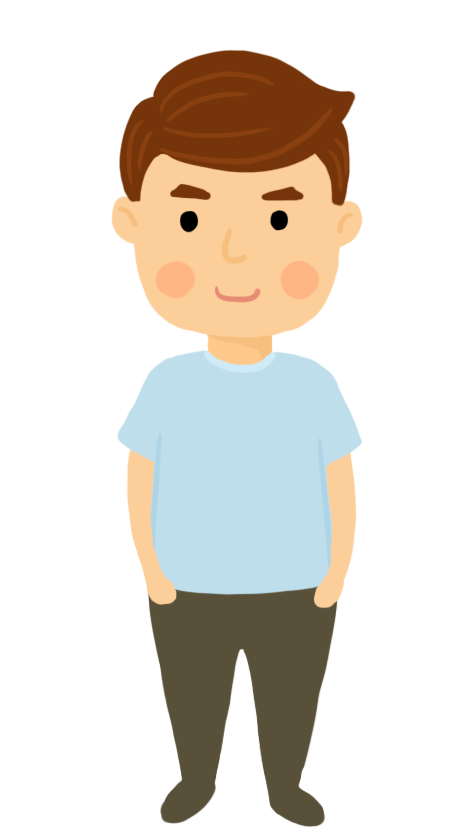
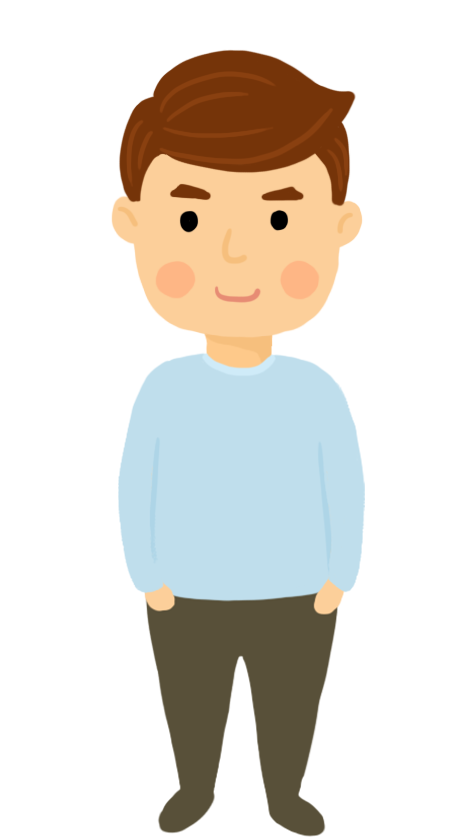
i

diff --git a/src/components/game/milk.vue b/src/components/game/milk.vue
@@ -70,8 +70,10 @@
     </div>
     <button class="clear-btn" v-if="!isSaved" @click="isClearCanvas"><img :src="require('../../assets/img/clear_icon.png')"/></button>
     <button class="back-btn" v-if="isSaved" @click="backToEdit">返回</button>
+    <p class="save-tip" v-if="isSaved">长按图片保存</p>
     <div class="bottom-back" v-if="!isSaved">
       <button class="save-btn" v-bind:style="{'background-image':'url('+require('../../assets/img/icons.png')+')'}" @click="saveCanvas"></button>
+      <p class="save-btn-tip">点击上方按钮生成海报</p>
     </div>
   </div>
 </template>
@@ -158,6 +160,7 @@ export default {
           require("../../assets/img/fur21.png"),
           require("../../assets/img/fur22.png"),
           require("../../assets/img/fur24.png"),
+          require("../../assets/img/fur25.png"),
           require("../../assets/img/fur5.png"),
           require("../../assets/img/fur6.png"),
           require("../../assets/img/fur7.png"),
@@ -240,6 +243,7 @@ export default {
           require("../../assets/img/man_body_6.png"),
           require("../../assets/img/man_body_7.png"),
           require("../../assets/img/man_body_8.png"),
+          require("../../assets/img/man_body_9.png"),
         ],
          //头发(女)
         [
@@ -285,6 +289,7 @@ export default {
           require("../../assets/img/woman_body_7.png"),
           require("../../assets/img/woman_body_8.png"),
           require("../../assets/img/woman_body_9.png"),
+          require("../../assets/img/man_body_9.png"),
         ],
         // 人物
         [
@@ -328,6 +333,7 @@ export default {
       characterDecorateList: [],//显示的可选的主角装饰
       // 保存图片路径
       imgList: [],
+      headImgEle:null,//头像元素
       // 保存图片实例
       imgListArr: [],
       // 保存图片信息
@@ -684,6 +690,17 @@ export default {
       weui.toast("长按保存", 1000);
       this.isSaved = true;
     },
+    getDataFromUrl(name){
+      let url = window.location.href;
+      let strList = url.split('?')[1].split('&');
+      for(let i = 0 ; i < strList.length ; i++){
+        var thisName = strList[i].split('=')[0];
+        if(thisName == name){
+          return strList[i].split('=')[1]
+        }
+      }
+      return ''
+    },
     backToEdit(){
       this.isSaved = false;
     },
@@ -726,19 +743,19 @@ export default {
         let t = this.delEl = {
           t: this.imgList[this.imgList.length - 2],
           i: a.i,
-          x: el.x - 15,
-          y: el.y + el.h -5,
-          w: 20,
-          h: 20
+          x: el.x - 20,
+          y: el.y + el.h -10,
+          w: 30,
+          h: 30
         };
         // 修改大小的按钮
         let s = this.resetEl = {
           t: this.imgList[this.imgList.length - 1],
           i: a.i,
-          x: el.x + el.w - 5,
-          y: el.y -15,
-          w: 20,
-          h: 20
+          x: el.x + el.w - 10,
+          y: el.y -20,
+          w: 30,
+          h: 30
         };
         // 设置颜色按钮
         this.setCol = [];
@@ -776,6 +793,30 @@ export default {
       let bottomW = this.canvas.width;
       let bottomH = 100/16*this.baseFontSize*this.ratio;
       this.ctx.drawImage(bottomTemp, bottomX, bottomY, bottomW, bottomH);
+      // 昵称
+      let nickName = decodeURIComponent(decodeURIComponent(this.getDataFromUrl('name')))
+      console.log(nickName)
+      // let nickNameX = 50;
+      let nickNameX = this.canvas.width * 0.15;
+      let nickNameY = this.canvas.height - 100/16*this.baseFontSize*this.ratio*0.73;
+      this.ctx.fillStyle = '#333';
+      this.ctx.font =this.canvas.width * 0.04/ this.ratio + 'px' + ' Georgia';
+      // this.ctx.font =this.canvas.width * 0.04 + 'px' + ' Georgia';
+      this.ctx.fillText('我是'+nickName+'，我为国家而宅',nickNameX/ this.ratio,nickNameY/ this.ratio);
+      // 底部头像
+      let headUrl = decodeURIComponent(decodeURIComponent(this.getDataFromUrl('headimg')));
+      let headX = this.canvas.width * 0.03;
+      let headY = this.canvas.height - 100/16*this.baseFontSize*this.ratio*0.95;
+      let headW = this.canvas.width * 0.09;
+      let headH = this.canvas.width * 0.09;
+      console.log(this.canvas.width,this.ratio,this.baseFontSize)
+      this.ctx.save();
+      this.ctx.beginPath();
+      this.ctx.arc((headX+headW/2) / this.ratio, (headY + headW/2) / this.ratio, headW/2 / this.ratio, 0, Math.PI * 2, false);
+      this.ctx.closePath();
+      this.ctx.clip(); //剪切路径
+      this.ctx.drawImage(this.headImgEle, headX, headY, headW, headH);
+      this.ctx.restore();
     },
     getCanvas() {
       const that = this;
@@ -873,6 +914,16 @@ export default {
           return;
         }
       }, 50);
+      // 预加载头像
+      let headUrl = decodeURIComponent(decodeURIComponent(this.getDataFromUrl('headimg')));
+      let headImage = new Image();
+      headImage.crossOrigin = "anonymous";
+      headImage.onload = () => { 
+        // this.headImgEle = headImage
+      }
+      headImage.src = headUrl;
+      headImage.dataSrc = headUrl;
+      this.headImgEle = headImage
     },
     checkEl() {
       console.log('checkEl-star');

diff --git a/src/assets/scss/page/game/_milk.scss b/src/assets/scss/page/game/_milk.scss
@@ -300,3 +300,19 @@
 #milk .bottom .selList li i {
     font-size: 5rem;
 }
+.save-btn-tip {
+    font-size: 12px;
+    margin-top: -6px;
+}
+.save-tip {
+    position: absolute;
+    bottom: 100px;
+    margin: auto;
+    display: block;
+    left: 50%;
+    width: 150px;
+    font-size: 20px;
+    font-weight: 900;
+    text-align: center;
+    margin-left: -75px;
+}
